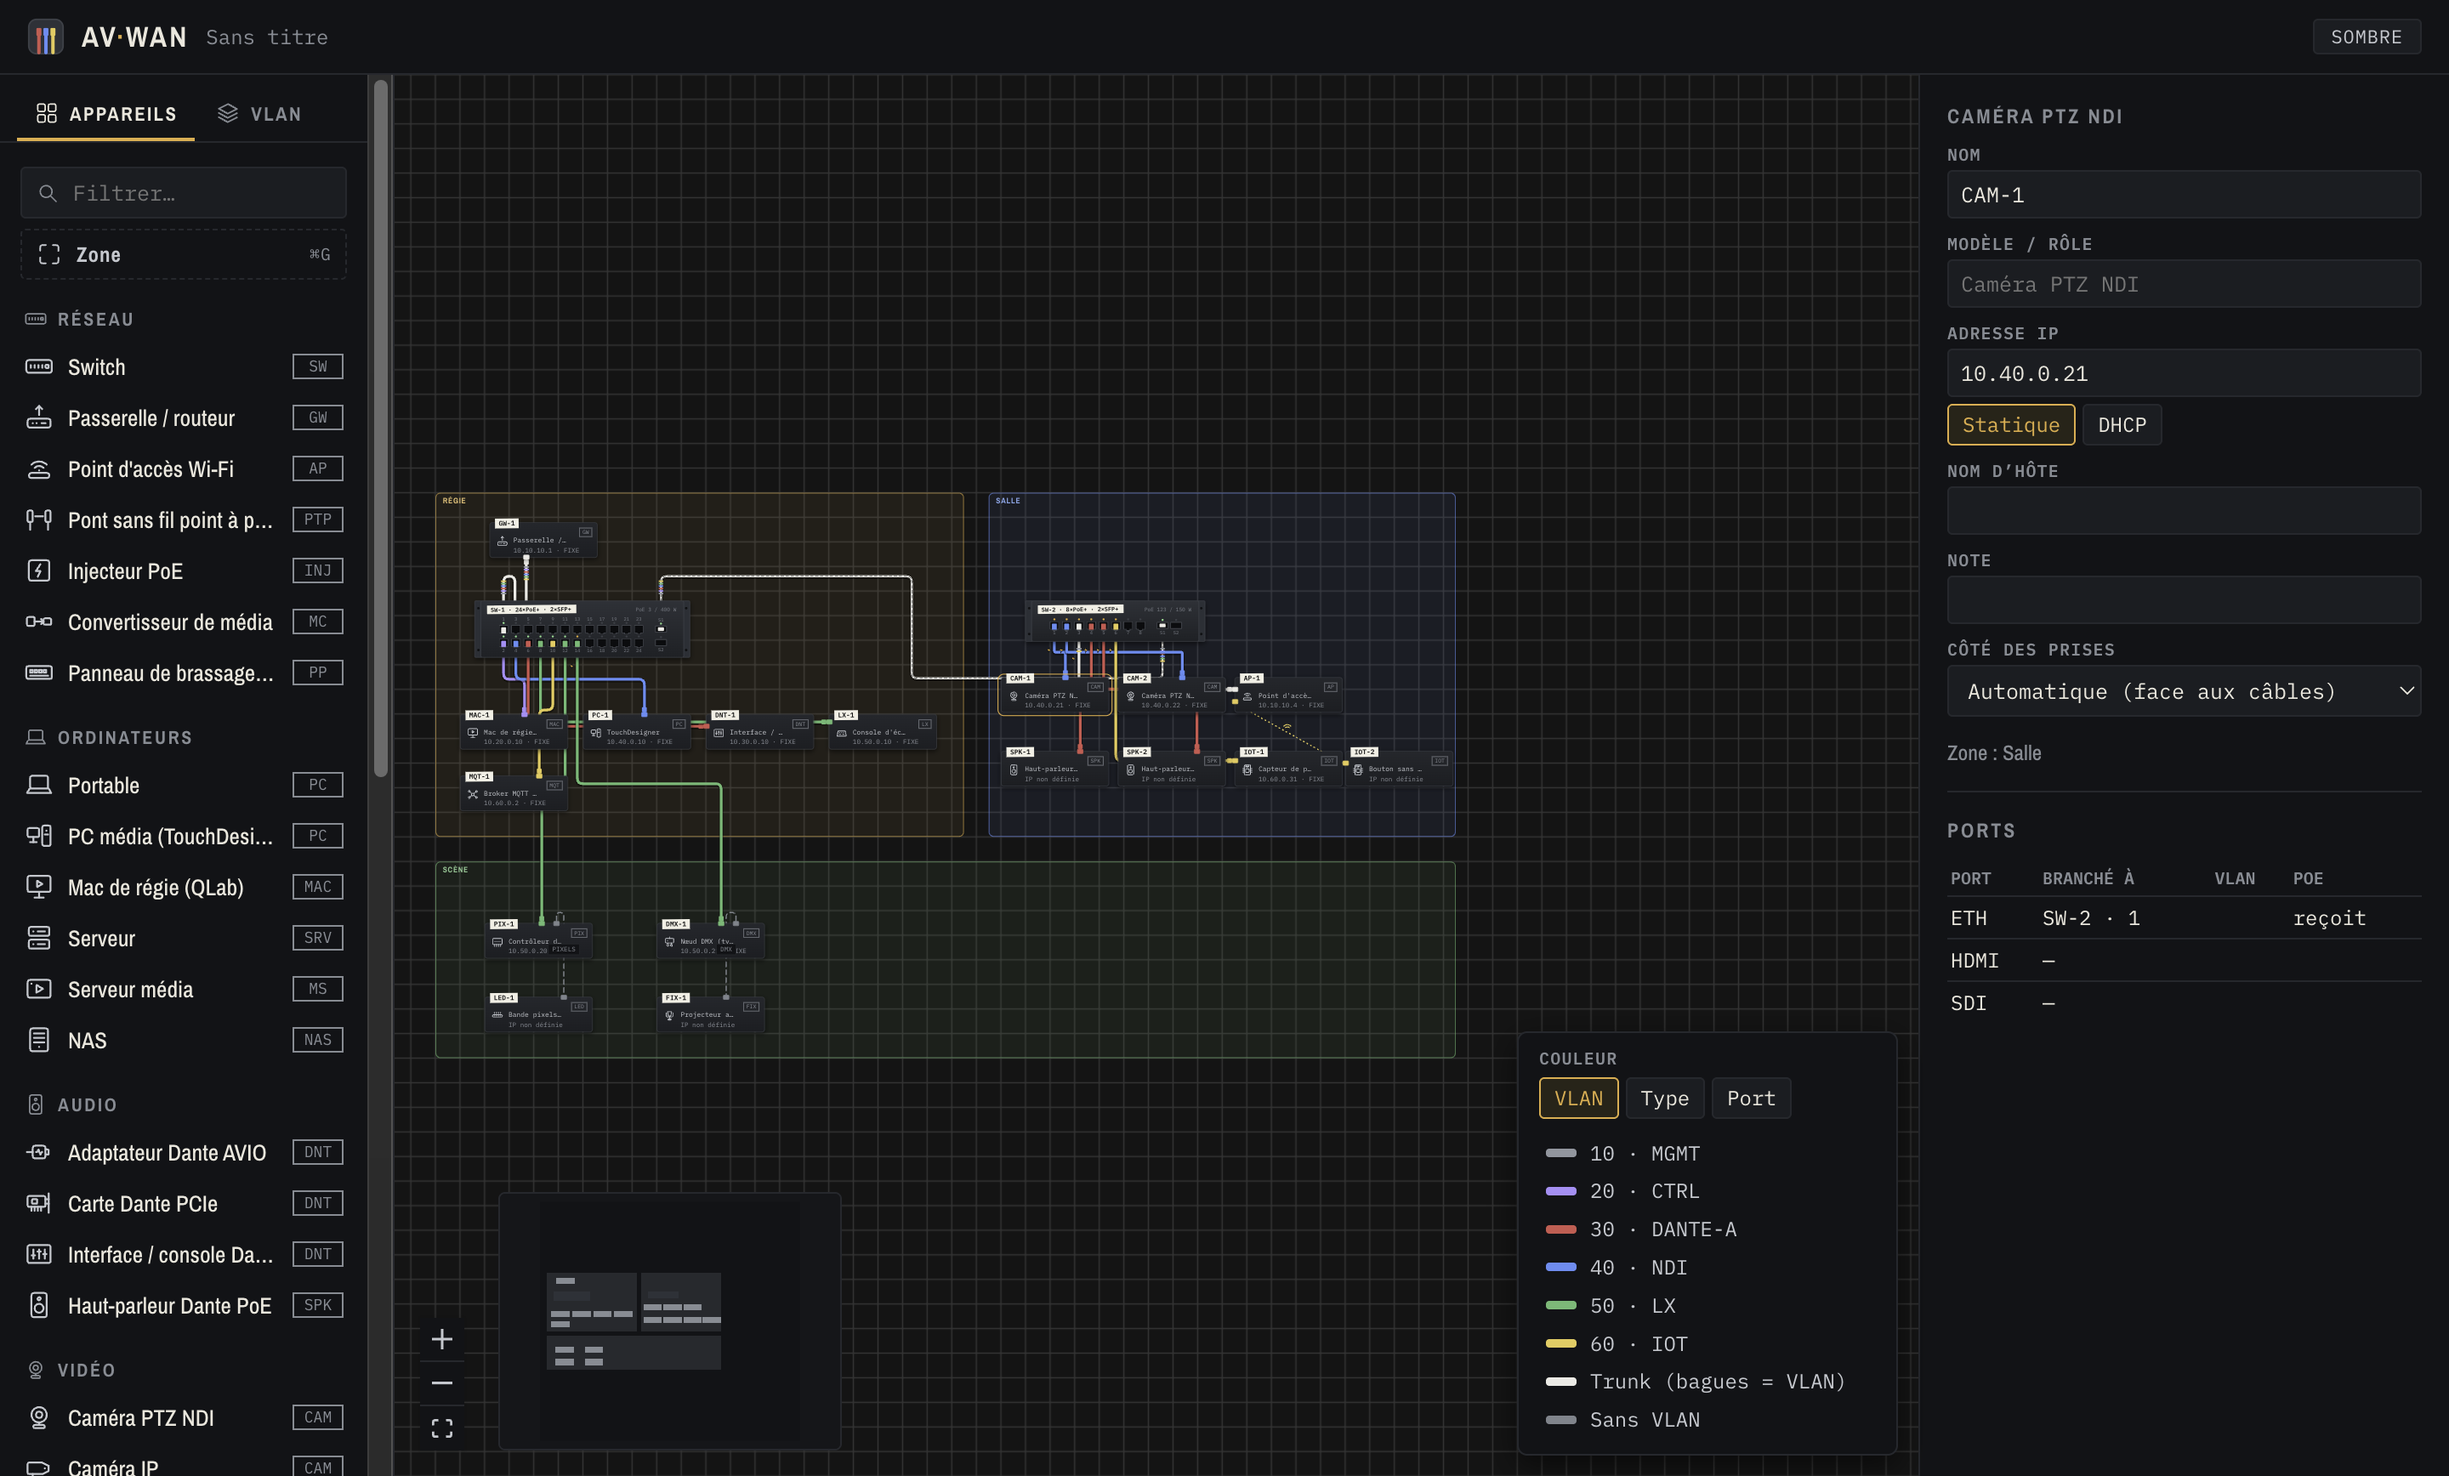
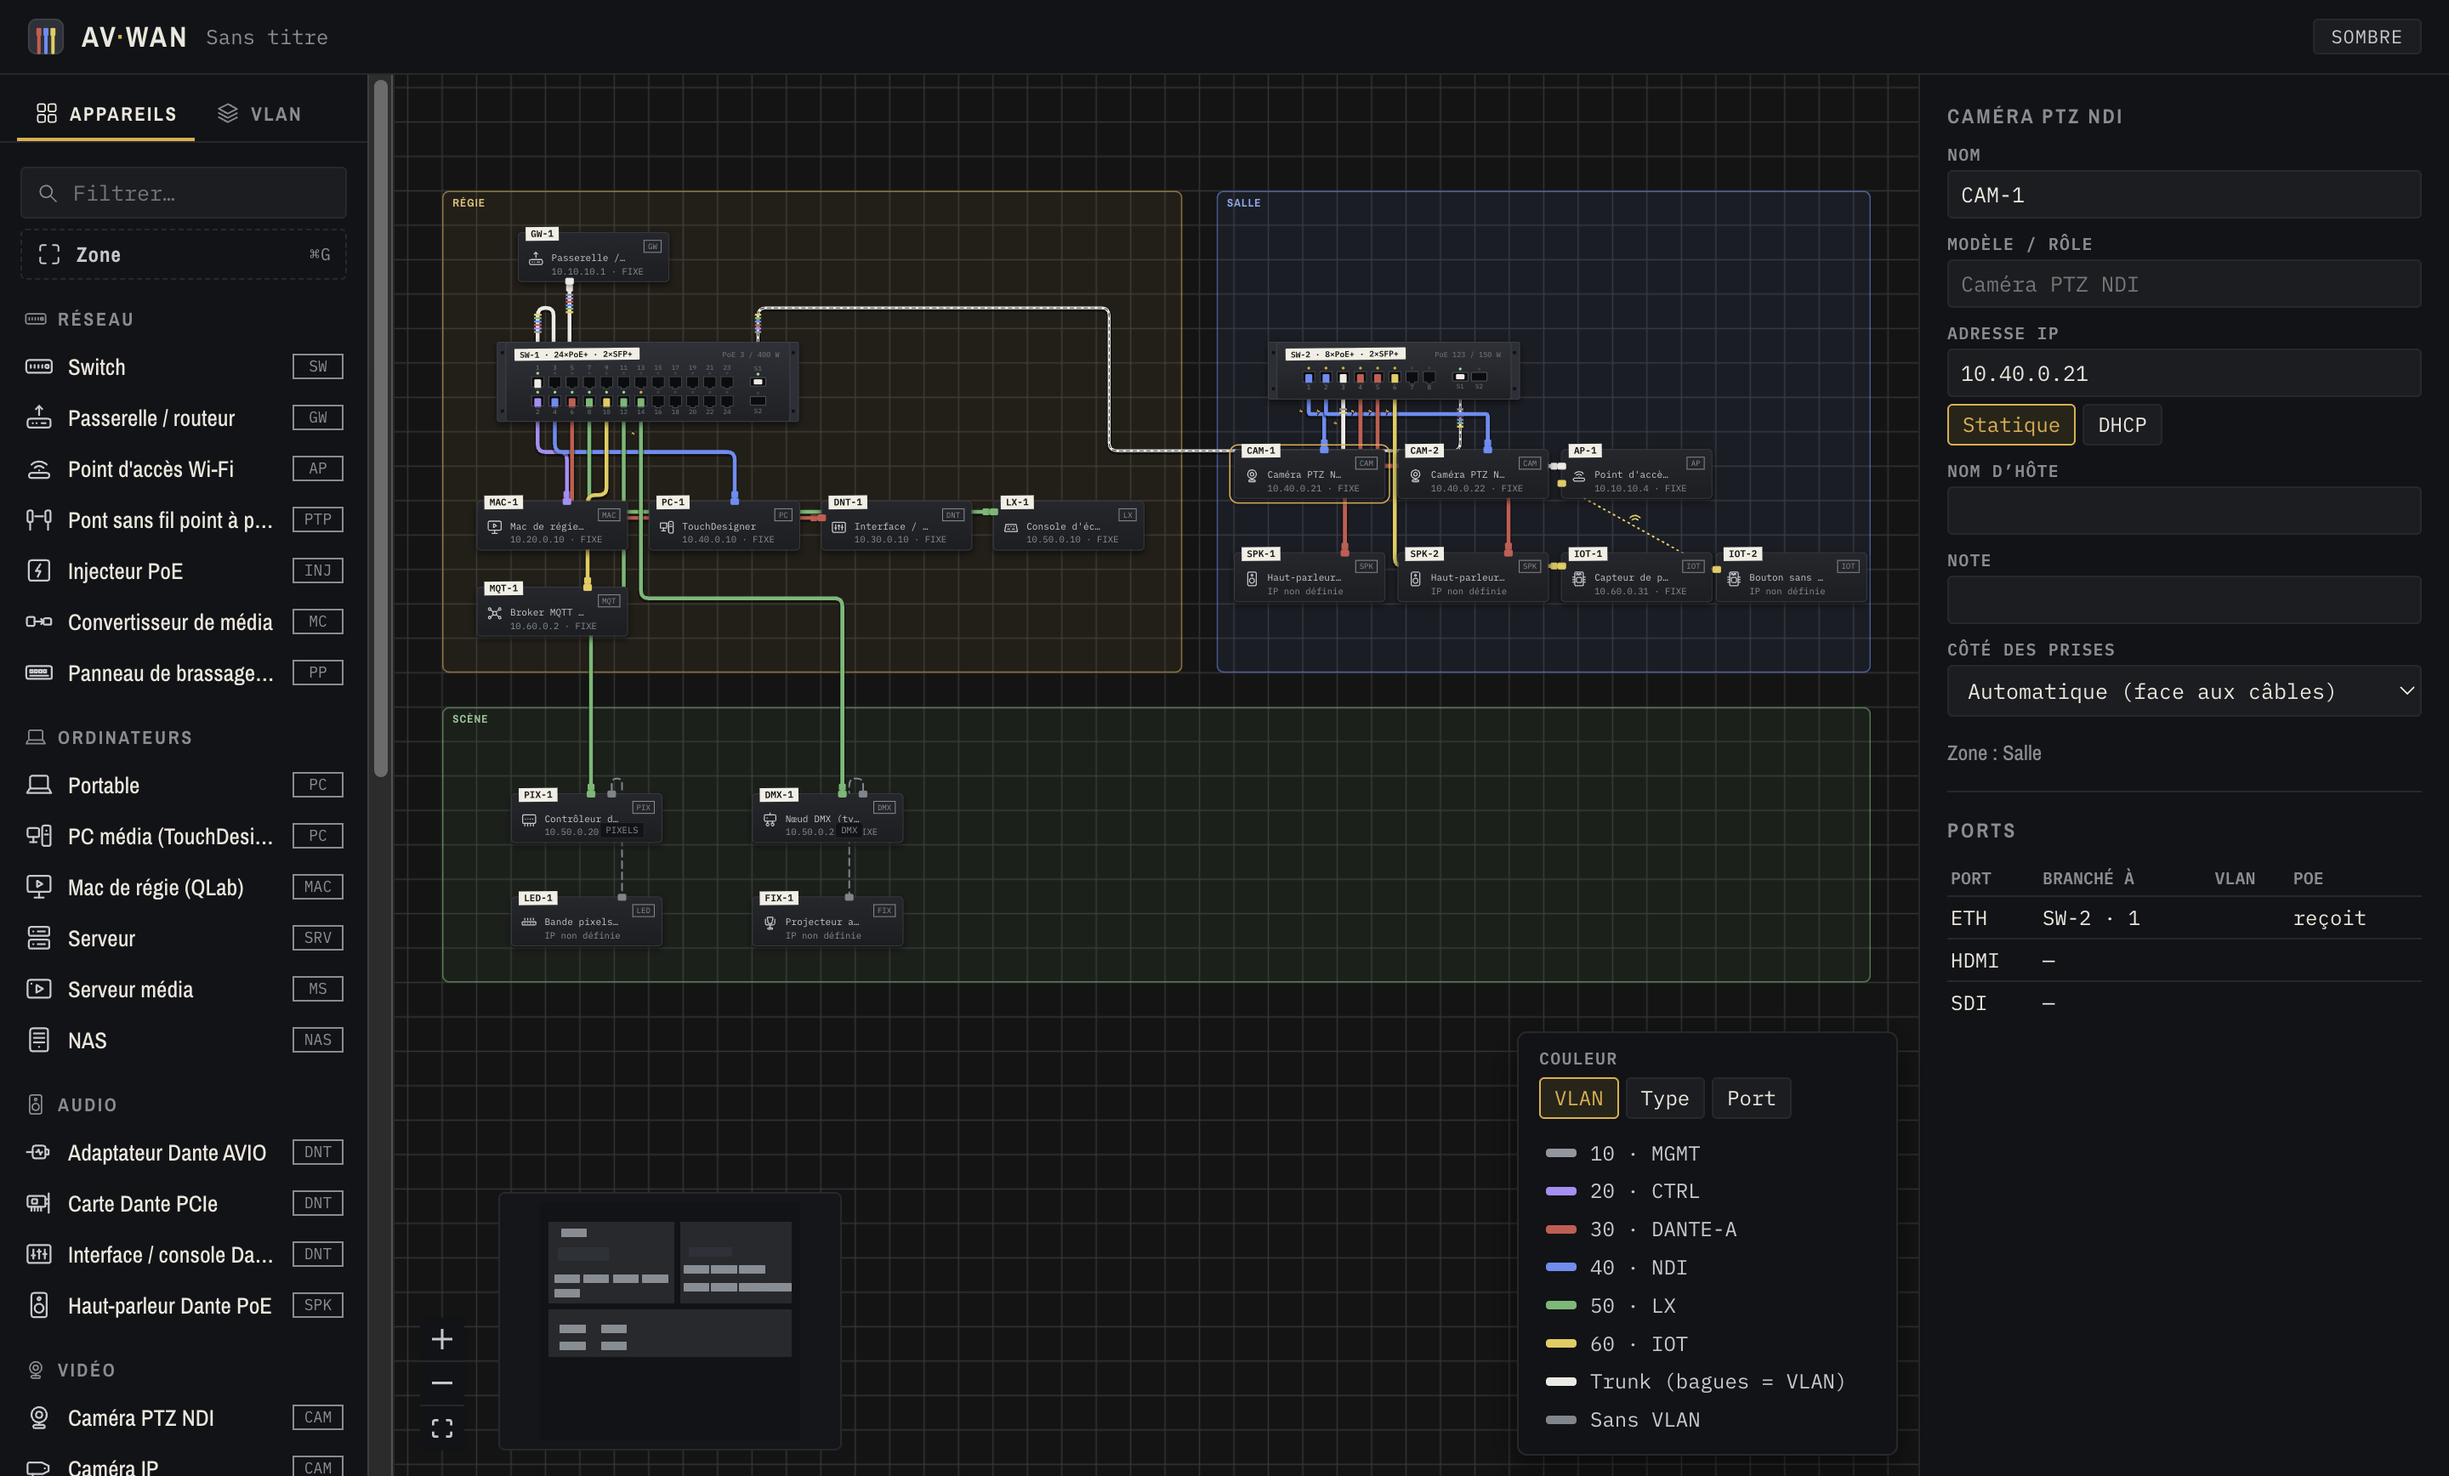
test(e2e): captures du README cadrées au-dessus de la légende

diff --git a/e2e/captures.spec.ts b/e2e/captures.spec.ts
@@ -1,18 +1,20 @@
 import { test, type Page } from '@playwright/test'
 import { launchApp } from './helpers'
 
-// Cadre le projet à l'écart de la légende (bas droite) et de la minicarte (bas gauche).
+// Les nombres seuls sont des ratios dans React Flow : on passe des « px » explicites.
 const px = (n: number): `${number}px` => `${n}px`
 
+// Cadre le projet au-dessus de la légende (bas droite) et de la minicarte (bas gauche) : on réserve
+// leur place en bas, mesurée sur la page.
 async function frameClearOfOverlays(page: Page): Promise<void> {
-  const box = async (selector: string) => (await page.locator(selector).boundingBox()) ?? { width: 0, height: 0 }
-  const legend = await box('.legend')
-  const minimap = await box('.react-flow__minimap')
-  const gutter = 24 // les nombres seuls sont des ratios dans React Flow : on passe des « px » explicites
-  await page.evaluate(
-    (pad) => window.__avwan!.fitView(pad),
-    { top: px(gutter), left: px(gutter), right: px(Math.ceil(legend.width) + 2 * gutter), bottom: px(Math.ceil(minimap.height) + 2 * gutter) }
-  )
+  const pane = await page.locator('.react-flow').boundingBox()
+  const legend = await page.locator('.legend').boundingBox()
+  const minimap = await page.locator('.react-flow__minimap').boundingBox()
+  if (!pane) throw new Error('Canvas introuvable')
+  const tops = [legend, minimap].flatMap((b) => (b ? [b.y] : []))
+  const gutter = 28
+  const bottom = Math.ceil(pane.y + pane.height - Math.min(...tops)) + gutter
+  await page.evaluate((pad) => window.__avwan!.fitView(pad), { top: px(gutter), left: px(gutter), right: px(gutter), bottom: px(bottom) })
 }
 
 // Captures du README : projet exemple, une caméra sélectionnée, thèmes sombre et clair.
